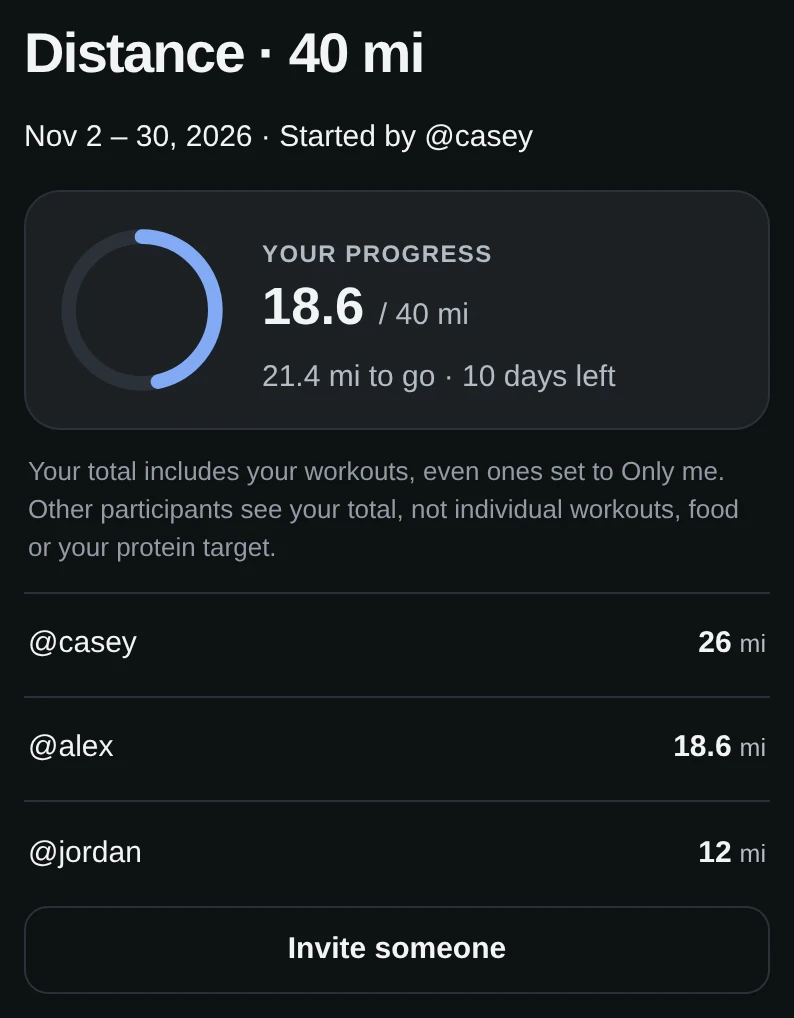
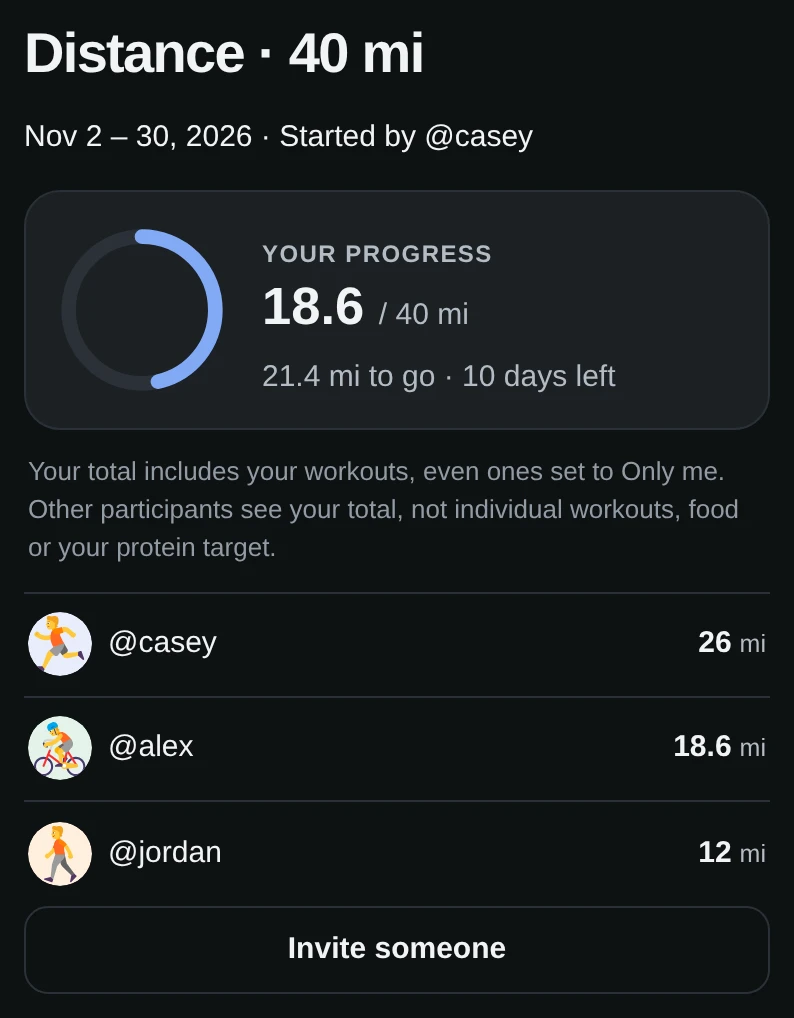
Add fictional app screenshot fixtures for #1319

Changed region(s): [[0.0302, 0.7004, 0.272, 0.8831], [0.0302, 0.5786, 0.272, 0.6699]]

diff --git a/dev/screenshots/take.js b/dev/screenshots/take.js
@@ -321,6 +321,59 @@ async function closeCaptureContext(context) {
         await foodChatPage.screenshot({path: `${OUT}/${scheme}-${name}.png`});
         continue;
       }
+      if (opt.foodChat === 'confirmed') {
+        const demo = await openFoodDemo(`zz_test_1319_chat_${scheme}`, scheme);
+        foodChatCtx = demo.context;
+        foodChatPage = demo.page;
+        await enableKitForDemo(foodChatPage);
+        await foodChatPage.goto(B + '/food/describe?meal=lunch');
+        await foodChatPage.locator('#thread-text').waitFor();
+        const fixtureDay = await foodChatPage.evaluate(async () => {
+          const payload = await fetch('/api/food/thread?limit=100').then(r => r.json());
+          const message = [...(payload.messages || [])].reverse().find(m => m.kind === 'user' && m.body === 'Chicken sandwich and an apple for lunch');
+          const reply = message && payload.messages.find(m => m.kind === 'reply' && m.reply_to === message.id);
+          const key = Object.keys(localStorage).find(name => name.startsWith('fit.food.review.draft:'));
+          if (!message?.result?.draft_id || reply?.result?.kind !== 'preview' || !key) {
+            throw Error('Missing the fictional #1319 meal review fixture.');
+          }
+          localStorage.setItem(key, JSON.stringify({id: message.result.draft_id, meal: 'lunch', day: message.local_day, explicitDay: true, active: true}));
+          return message.local_day;
+        });
+        await foodChatPage.goto(B + '/food/describe?meal=lunch');
+        const message = foodChatPage.locator('#thread-messages article').filter({hasText: 'Chicken sandwich and an apple for lunch'});
+        await message.waitFor({timeout: 15000});
+        const reply = foodChatPage.locator('.thread-card').filter({hasText: 'Chicken sandwich'});
+        await reply.waitFor({state: 'visible'});
+        for (const text of ['Chicken sandwich', 'Apple']) {
+          if (!await reply.getByText(text, {exact: true}).count()) throw Error('The Kit meal reply should contain the sandwich and apple.');
+        }
+        const add = foodChatPage.locator('#thread-review-add');
+        await add.waitFor({state: 'visible'});
+        if (await add.isDisabled()) throw Error('The Kit meal estimate must be complete before the Add to log confirmation.');
+        await add.click();
+        await foodChatPage.waitForFunction(async day => {
+          const data = await fetch('/api/food/day?d=' + day).then(r => r.json());
+          return data.entries.some(entry => entry.name === 'Chicken sandwich' && entry.meal === 'lunch') &&
+            data.entries.some(entry => entry.name === 'Apple' && entry.meal === 'lunch');
+        }, fixtureDay);
+        const logged = foodChatPage.locator('.thread-logged-summary').first();
+        await logged.waitFor({state: 'visible'});
+        await logged.click();
+        await foodChatPage.locator('.thread-logged-details').first().waitFor({state: 'visible'});
+        const history = await foodChatPage.locator('#thread-messages').innerText();
+        if (!history.includes('Chicken sandwich and an apple for lunch') || !history.includes('Chicken sandwich') || !history.includes('Apple')) {
+          throw Error('Confirmed meal capture needs the typed meal, Kit reply, and logged foods in the conversation.');
+        }
+        await foodChatPage.evaluate(() => document.activeElement.blur());
+        await foodChatPage.waitForFunction(() => {
+          const toast = document.querySelector('#toast');
+          return !toast || (!toast.classList.contains('on') && Number(getComputedStyle(toast).opacity) < 0.01);
+        }, {timeout: 10000});
+        await foodChatPage.evaluate(chrome, {dark: scheme === 'dark', width: W});
+        await foodChatPage.evaluate(() => new Promise(resolve => requestAnimationFrame(() => requestAnimationFrame(resolve))));
+        await foodChatPage.screenshot({path: `${OUT}/${scheme}-${name}.png`});
+        continue;
+      }
       if (opt.foodChat === 'same-yesterday') {
         const demo = await openFoodDemo(`zz_test_658_food_${scheme}`, scheme);
         foodRepeatCtx = demo.context;
@@ -347,6 +400,10 @@ async function closeCaptureContext(context) {
       });
       await page.evaluate((p) => { document.querySelectorAll('.scrim').forEach((x) => x.remove()); document.body.classList.remove('has-sheet'); window.scrollTo(0, 0); go(p); }, ids[path] || path);   // no sheet left open from the shot before
       await page.waitForTimeout(1500);
+      if(name==='profile'){
+        const entry=page.locator('.me-featured-title a');await entry.waitFor({state:'visible'});
+        if((await entry.innerText()).trim()!=='See all')throw Error('Profile example must show the entry to Achievements.');
+      }
       if (name === 'nutrition-filled') {
         await page.locator('.calorie-ring[aria-valuetext="1,650 of 1,800 calories"]').waitFor({state: 'visible', timeout: 12000});
         await page.getByText('Oats and berries', {exact: true}).waitFor({state: 'visible'});

diff --git a/dev/screenshots/tour.js b/dev/screenshots/tour.js
@@ -4,6 +4,7 @@
 const {chromium} = require('playwright');
 const assert = require('node:assert/strict');
 const fs = require('node:fs');
+const path = require('node:path');
 const OUT = process.argv[2], B = process.argv[3] || 'http://localhost:8798';
 const PAD = 12;   // page background kept around a card so its edge and shadow stay visible
 const ONLY = process.env.KINETTA_TOUR_ONLY ? new Set(process.env.KINETTA_TOUR_ONLY.split(',').filter(Boolean)) : null;
@@ -27,6 +28,7 @@ const CROPS = [
   ['friends-feed', '/activity', '.activity-card', '.activity-card', 'alex'],
   ['friends-photos', '/activity', '.activity-card', '.activity-card', 'alex', 'photo'],
   ['friends-profile', '/people/alex', '.me-card', '.me-card', 'alex'],
+  ['profile-achievements', '/people/alex', '.me-card', '.me-featured-achievements', 'alex', 'scroll-crop'],
   ['friends-find', '/me/friends?find=1&q=Morgan', '#fr-find', '#fr-found', 'alex', 'hide-friends-groups'],
   ['run-achievements', '/me/achievements', '.profile-achievement-group[aria-labelledby=\"profile-achievement-group-run\"]', '.profile-achievement-group[aria-labelledby=\"profile-achievement-group-run\"]', 'alex', 'scroll-crop'],
 ];
@@ -180,15 +182,31 @@ async function saveChallengeCrop(page, name, scheme) {
         member: true, owner: false, joining_closed: false, ended_early: false, manual: false, garmin_sources: [],
         self: {value: 18.6, complete: false, manual: false, garmin_sources: [], days_left: 10, finished: false, needs_target: false},
         people: [
-          {username: 'casey', photo: false, value: 26, complete: false},
-          {username: 'alex', photo: false, value: 18.6, complete: false},
-          {username: 'jordan', photo: false, value: 12, complete: false},
+          {username: 'casey', photo: 'fluent-emoji-mit-r1', value: 26, complete: false},
+          {username: 'alex', photo: 'fluent-emoji-mit-r1', value: 18.6, complete: false},
+          {username: 'jordan', photo: 'fluent-emoji-mit-r1', value: 12, complete: false},
         ],
+      };
+      const avatarFiles = {
+        casey: 'person_running_flat_default.svg',
+        alex: 'person_biking_flat_default.svg',
+        jordan: 'person_walking_flat_default.svg',
       };
       await page.route('**/api/challenges**', route => {
         const pathname = new URL(route.request().url()).pathname;
         if (pathname === '/api/challenges') return route.fulfill({json: []});
         if (pathname === `/api/challenges/${challenge.code}`) return route.fulfill({json: challenge});
+        const match = pathname.match(new RegExp(`^/api/challenges/${challenge.code}/photo/([^/]+)$`));
+        if (match) {
+          const username = decodeURIComponent(match[1]);
+          const file = avatarFiles[username];
+          if (!file) return route.fulfill({status: 404});
+          const source = fs.readFileSync(path.join(__dirname, '../../app/static/profile.fluent-emoji/flat', file), 'utf8');
+          const art = source.replace(/^<svg[^>]*>/, '').replace(/<\/svg>\s*$/, '');
+          const surface = {casey: '#e8eefb', alex: '#e3f4e9', jordan: '#fff0df'}[username];
+          const svg = `<svg width="32" height="32" viewBox="0 0 32 32" xmlns="http://www.w3.org/2000/svg"><circle cx="16" cy="16" r="16" fill="${surface}"/>${art}</svg>`;
+          return route.fulfill({status: 200, contentType: 'image/svg+xml', body: svg});
+        }
         return route.fallback();
       });
       await page.goto(B + '/me/challenges');

diff --git a/dev/screenshots/food_confirmed_chat_fixture.py b/dev/screenshots/food_confirmed_chat_fixture.py
@@ -1,0 +1,53 @@
+"""Stage a fictional typed lunch for the #1319 screenshot; the UI confirms it locally."""
+import datetime as dt
+import sys
+import uuid
+from unittest.mock import patch
+from zoneinfo import ZoneInfo
+
+sys.path.insert(0, '/srv')
+
+from fastapi.testclient import TestClient
+from app import db, food_thread as thread, food_thread_compose as compose, food_thread_sources as sources
+from app.main import app
+
+BODY = 'Chicken sandwich and an apple for lunch'
+FOODS = [
+    {'name': 'Chicken sandwich', 'amount': '1 sandwich', 'grams': 220, 'kcal': 420,
+     'protein_g': 31, 'carbs_g': 42, 'fat_g': 13, 'fiber_g': 4},
+    {'name': 'Apple', 'amount': '1 medium', 'grams': 182, 'kcal': 95,
+     'protein_g': 0, 'carbs_g': 25, 'fat_g': 0, 'fiber_g': 4},
+]
+CAPTURED_AT = dt.datetime.fromisoformat((sys.argv[1] if len(sys.argv) > 1 else '2026-11-20T17:00:00Z').replace('Z', '+00:00'))
+if CAPTURED_AT.tzinfo is None:
+    CAPTURED_AT = CAPTURED_AT.replace(tzinfo=ZoneInfo('America/New_York'))
+CAPTURED_AT = CAPTURED_AT.astimezone(ZoneInfo('America/New_York'))
+DAY = CAPTURED_AT.date()
+
+with patch('urllib.request.urlopen', side_effect=AssertionError('Screenshot fixture must not make external requests')):
+    for theme in ('light', 'dark'):
+        client = TestClient(app)
+        client.headers['Origin'] = 'http://testserver'
+        assert client.post('/api/login', json={
+            'login': f'zz_test_1319_chat_{theme}', 'password': 'green teapot on the hill'
+        }).status_code == 200
+        response = client.post('/api/food/thread/messages', json={
+            'client_id': str(uuid.uuid5(uuid.NAMESPACE_URL, f'https://kinetta.app/demo/1319/meal/{theme}')),
+            'draft_id': str(uuid.uuid5(uuid.NAMESPACE_URL, f'https://kinetta.app/demo/1319/draft/{theme}')),
+            'review_only': True, 'body': BODY, 'meal': 'lunch', 'day': str(DAY), 'captured_at': CAPTURED_AT.isoformat(),
+        })
+        assert response.status_code == 201, response.text
+        message = response.json()['message']
+        drafts = sources.model_drafts({'items': FOODS, 'notes': '', 'model': 'fictional-layout-standin'})
+        part = {'index': 0, 'status': 'ready', 'estimated': True,
+                'drafts': drafts, 'entries': sources.draft_entries(drafts)}
+        with db.connect() as connection:
+            uid = connection.execute('SELECT id FROM users WHERE login=%s', (f'zz_test_1319_chat_{theme}',)).fetchone()['id']
+            result = compose.write(connection, uid, thread.locked_message(connection, uid, message['id']), {
+                'composed': True, 'day': str(DAY), 'meal': 'lunch', 'parts': [part],
+            })
+        reply = next(row for row in result['messages'] if row.get('reply_to') == message['id'])
+        assert reply['result']['kind'] == 'preview', reply['result']
+        assert [entry['name'] for entry in reply['result']['parts'][0]['entries']] == ['Chicken sandwich', 'Apple']
+        assert client.get(f'/api/food/day?d={DAY}').json()['entries'] == [], 'the fixture is unlogged until the screenshot clicks Add to log'
+        print(theme, 'fictional sandwich-and-apple Kit review staged; awaiting explicit screenshot confirmation')

diff --git a/dev/screenshots/stage.py b/dev/screenshots/stage.py
@@ -189,6 +189,16 @@ for theme in ('light', 'dark'):
         existing('POST', '/api/account/delete', {'password': weight_body['password']})
         alex('POST', '/api/admin/people', weight_body)
     person(weight_login, weight_body['password'])('PUT', '/api/profile', {'tz': 'America/New_York', 'units': 'imperial', 'ai_ok': False, 'ai_adult': False})
+    confirmed_login = f'zz_test_1319_chat_{theme}'
+    confirmed_body = {'login': confirmed_login, 'name': f'Fictional meal example {theme}', 'password': 'green teapot on the hill'}
+    try:
+        alex('POST', '/api/admin/people', confirmed_body)
+    except urllib.error.HTTPError as error:
+        if error.code != 409: raise
+        existing = person(confirmed_login, confirmed_body['password'])
+        existing('POST', '/api/account/delete', {'password': confirmed_body['password']})
+        alex('POST', '/api/admin/people', confirmed_body)
+    person(confirmed_login, confirmed_body['password'])('PUT', '/api/profile', {'tz': 'America/New_York', 'units': 'imperial', 'ai_ok': True, 'ai_adult': True})
 
 # A prepared three-food review keeps the browser screenshot deterministic. The
 # helper writes only to the disposable screenshot app and uses fictional values.
@@ -205,6 +215,12 @@ if copied_fixture:
     subprocess.run(['docker', 'cp', str(source), f'{apps[0]}:{fixture}'], check=True)
 try:
     subprocess.run(['docker', 'exec', apps[0], 'python', fixture, now.isoformat()], check=True)
+    confirmed_fixture = f'/tmp/kinetta-meal-example-fixture-{os.getpid()}.py'
+    subprocess.run(['docker', 'cp', str(Path(__file__).with_name('food_confirmed_chat_fixture.py')), f'{apps[0]}:{confirmed_fixture}'], check=True)
+    try:
+        subprocess.run(['docker', 'exec', apps[0], 'python', confirmed_fixture, now.isoformat()], check=True)
+    finally:
+        subprocess.run(['docker', 'exec', apps[0], 'rm', '-f', confirmed_fixture], check=False)
     weight_fixture = f'/tmp/kinetta-food-weight-fixture-{os.getpid()}.py'
     subprocess.run(['docker', 'cp', str(Path(__file__).with_name('food_weight_chat_fixture.py')), f'{apps[0]}:{weight_fixture}'], check=True)
     try:

diff --git a/dev/screenshots/README.md b/dev/screenshots/README.md
@@ -1,6 +1,10 @@
 # Fictional product captures
 
-`scenes.json` is the shared website/App Store capture list. Each entry supplies a stable scene name, the app route (or the demo-record resolver in `take.js`), and any setup action. The same clean data comes from `dev/demo/seed.py`, `stage.py` and `coach.sql`. Activity uses three accepted fictional friends, plus a separate pending request; it shows a populated feed rather than a new-account discovery prompt. The Food story includes Add food, Nutrition, Insights and recipes. Retake after app design changes merge.
+`scenes.json` is the shared website/App Store capture list. Each entry supplies a stable scene name, the app route (or the demo-record resolver in `take.js`), and any setup action. The same clean data comes from `dev/demo/seed.py`, `stage.py` and `coach.sql`. Activity uses three accepted fictional friends, plus a separate pending request; it shows a populated feed rather than a new-account discovery prompt. The Food story includes Add food, Nutrition, Insights and recipes. `kit-food-chat-confirmed` stages a typed fictional lunch, then confirms it through the app UI; the sample nutrition is stand-in data, not an AI result. Retake after app design changes merge.
+
+The website challenge detail fixture uses three **illustrated avatars**, not portraits of real people. They are Microsoft Fluent Emoji Flat SVGs, pinned in `app/static/profile.fluent-emoji/README.md` to upstream commit `1ffb34c752ecf5d402f04cfb4b392c77f57c54bc` and distributed under the included MIT licence. These are stock illustrations, so a model release does not apply. Preserve the upstream copyright and MIT notice when reusing the artwork. Do not replace these with uncleared photos.
+
+The #1319 PR1 review captures are `site/assets/shots/1319-*` (working map, confirmed Kit meal and Profile) and `site/assets/tour/profile-achievements-*`. They use fictional records and can be reused by the follow-up website layout PR.
 
 Start an isolated disposable Compose project with `compose.standin.yml`, load the fixtures, then run `take.js <png-directory> <base-url>` and `to_webp.py <png-directory> site/assets/shots`. Set the operator-approved map variables explicitly: the capture script blocks the public OSM tile endpoint. The website workflow reads only the published public `/api/map-config` through `map_env.py`, with no account or private runtime access. For localhost captures, its range-request relay uses the published app origin and adapts response CORS to localhost; archive bytes and rendering stay unchanged. No production CORS setting is changed. A visible map-load failure stops capture/publication. The three-food chat card is prepared by `food_chat_fixture.py` with fictional nutrition values; food estimates, product lookup and prepared Kit reviews use stand-ins, with no live AI or food-provider request. The screenshots show actual implemented browser controls and fictional records; they do not demonstrate model accuracy.
 
